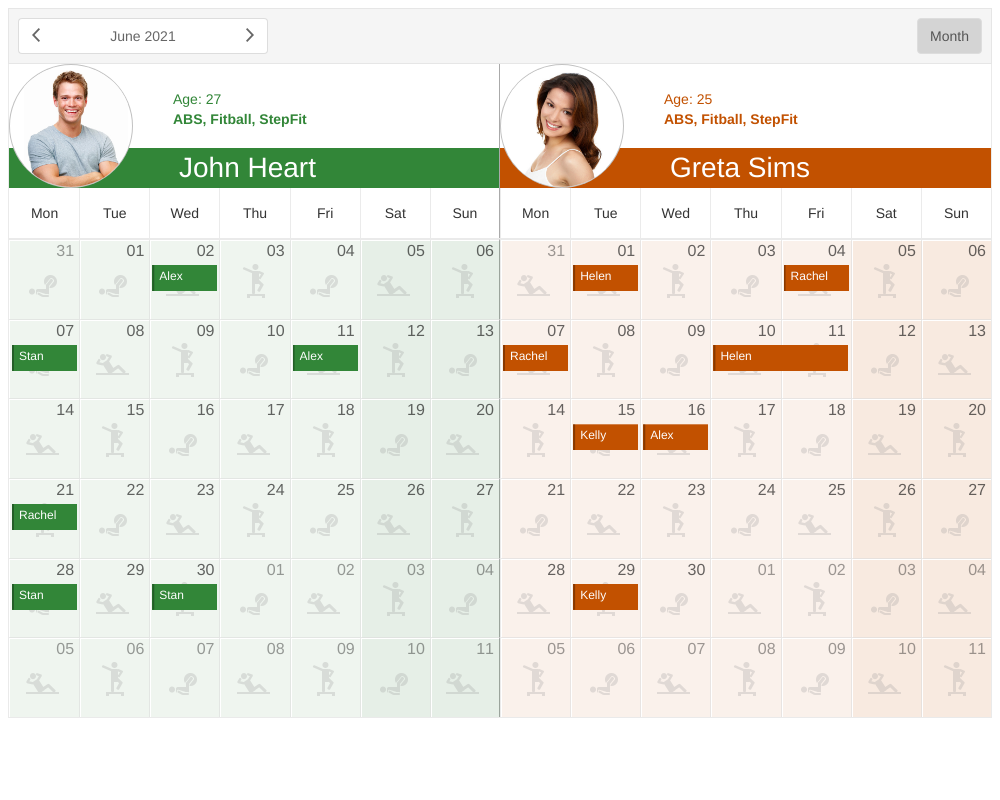
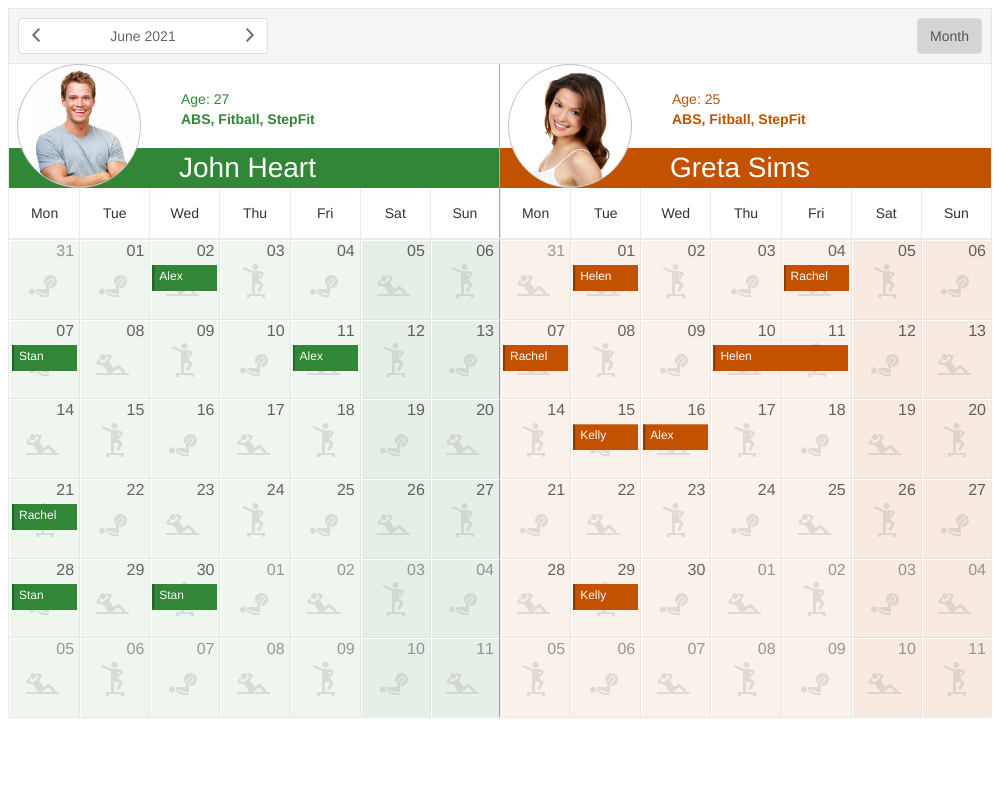
Scheduler - Overview - fix text color of focused appt in fluent (#28506)

diff --git a/apps/demos/Demos/Scheduler/Overview/Angular/app/app.component.css b/apps/demos/Demos/Scheduler/Overview/Angular/app/app.component.css
@@ -3,6 +3,10 @@
   position: relative;
 }
 
+::ng-deep .dx-scheduler-group-header-content {
+  padding-left: 8px;
+}
+
 ::ng-deep .dx-color-scheme-light,
 ::ng-deep .dx-color-scheme-carmine,
 ::ng-deep .dx-color-scheme-softblue,
@@ -50,7 +54,8 @@
   color: var(--text-color-1);
 }
 
-::ng-deep .dx-scheduler-work-space-month .dx-scheduler-appointment {
+::ng-deep .dx-scheduler-work-space-month .dx-scheduler-appointment,
+::ng-deep .dx-scheduler-work-space-month .dx-scheduler-appointment.dx-state-focused {
   color: var(--text-color-2);
   line-height: 22px;
 }

diff --git a/apps/demos/Demos/Scheduler/Overview/Vue/App.vue b/apps/demos/Demos/Scheduler/Overview/Vue/App.vue
@@ -51,6 +51,10 @@ const dataSource = data;
   position: relative;
 }
 
+.dx-scheduler-group-header-content {
+  padding-left: 8px;
+}
+
 .dx-color-scheme-light,
 .dx-color-scheme-carmine,
 .dx-color-scheme-softblue,
@@ -98,7 +102,8 @@ const dataSource = data;
   color: var(--text-color-1);
 }
 
-.dx-scheduler-work-space-month .dx-scheduler-appointment {
+.dx-scheduler-work-space-month .dx-scheduler-appointment,
+.dx-scheduler-work-space-month .dx-scheduler-appointment.dx-state-focused {
   color: var(--text-color-2);
   line-height: 22px;
 }

diff --git a/apps/demos/Demos/Scheduler/Overview/React/styles.css b/apps/demos/Demos/Scheduler/Overview/React/styles.css
@@ -3,6 +3,10 @@
   position: relative;
 }
 
+.dx-scheduler-group-header-content {
+  padding-left: 8px;
+}
+
 .dx-color-scheme-light,
 .dx-color-scheme-carmine,
 .dx-color-scheme-softblue,
@@ -50,7 +54,8 @@
   color: var(--text-color-1);
 }
 
-.dx-scheduler-work-space-month .dx-scheduler-appointment {
+.dx-scheduler-work-space-month .dx-scheduler-appointment,
+.dx-scheduler-work-space-month .dx-scheduler-appointment.dx-state-focused {
   color: var(--text-color-2);
   line-height: 22px;
 }

diff --git a/apps/demos/Demos/Scheduler/Overview/ReactJs/styles.css b/apps/demos/Demos/Scheduler/Overview/ReactJs/styles.css
@@ -3,6 +3,10 @@
   position: relative;
 }
 
+.dx-scheduler-group-header-content {
+  padding-left: 8px;
+}
+
 .dx-color-scheme-light,
 .dx-color-scheme-carmine,
 .dx-color-scheme-softblue,
@@ -50,7 +54,8 @@
   color: var(--text-color-1);
 }
 
-.dx-scheduler-work-space-month .dx-scheduler-appointment {
+.dx-scheduler-work-space-month .dx-scheduler-appointment,
+.dx-scheduler-work-space-month .dx-scheduler-appointment.dx-state-focused {
   color: var(--text-color-2);
   line-height: 22px;
 }

diff --git a/apps/demos/Demos/Scheduler/Overview/jQuery/styles.css b/apps/demos/Demos/Scheduler/Overview/jQuery/styles.css
@@ -3,6 +3,10 @@
   position: relative;
 }
 
+.dx-scheduler-group-header-content {
+  padding-left: 8px;
+}
+
 .dx-color-scheme-light,
 .dx-color-scheme-carmine,
 .dx-color-scheme-softblue,
@@ -50,7 +54,8 @@
   color: var(--text-color-1);
 }
 
-.dx-scheduler-work-space-month .dx-scheduler-appointment {
+.dx-scheduler-work-space-month .dx-scheduler-appointment,
+.dx-scheduler-work-space-month .dx-scheduler-appointment.dx-state-focused {
   color: var(--text-color-2);
   line-height: 22px;
 }
